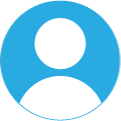
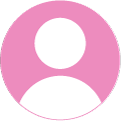
アイコンB,C交換 & 話者表示

diff --git a/src/ChatBox.jsx b/src/ChatBox.jsx
@@ -4,7 +4,20 @@ import B from "../images/B.png";
 import C from "../images/C.png"; 
 import system from "../images/system.png";
 
-const ChatBox = ({ namesEng, messages, error }) => {
+const ChatBox = ({ names, namesEng, messages, error }) => {
+  const getName = (nameEng) => {
+    switch (nameEng) {
+      case namesEng[0]:
+        return names[0];
+      case namesEng[1]:
+        return names[1];
+      case namesEng[2]:
+        return names[2];
+      default:
+        return ''; // デフォルトの画像パス、必要ならば設定
+    }
+  };
+
   const getImageSrc = (nameEng) => {
     switch (nameEng) {
       case namesEng[0]:
@@ -19,15 +32,17 @@ const ChatBox = ({ namesEng, messages, error }) => {
         return ''; // デフォルトの画像パス、必要ならば設定
     }
   };
-
+  
   return (
     <>
     <div className="chat-box">
       {messages.map((msg, index) => {
+        const name = getName(msg.name);
         const imageSrc = getImageSrc(msg.name);
         return (
           <div className={msg.name} key={index}>
             {imageSrc && <img src={imageSrc} alt={msg.name} />}
+            {name && <p>{name}</p>}
             <p className={`${msg.role} ${msg.mode}`}>
               {msg.content}
             </p>

diff --git a/src/App.jsx b/src/App.jsx
@@ -87,7 +87,7 @@ function App() {
     <div className="App">
       <Header names = {names} messages = {messages} inputAble = {inputAble} setInputAble = {setInputAble} recipients = {recipients} setRecipients = {setRecipients} />
       <AssistantResponses names = {names}　namesEng = {namesEng} messages = {messages} setMessages = {setMessages} inputAble = {inputAble} characters = {characters} chat = {chat} reflect = {reflect} recipients = {recipients} setError = {setError} />
-      <ChatBox namesEng = {namesEng}　messages = {messages} error = {error} />
+      <ChatBox names = {names} namesEng = {namesEng}　messages = {messages} error = {error} />
       <MessageInput setMessages = {setMessages} inputAble = {inputAble} />
     </div>
   );
